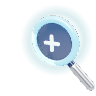
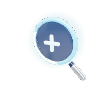
Lupa menor e proporcional (e à prova de sumir); Serviços com título junto ao menu e letras maiores (#129)
Claude-Session: https://claude.ai/code/session_01W4EMxrHJE2KvoUZMjh5ybf

Changed region(s): [[0.25, 0.0938, 1.0, 0.9688]]

diff --git a/src/app/theme-claro.css b/src/app/theme-claro.css
@@ -1752,9 +1752,9 @@ html.bolha-aberta a, html.bolha-aberta button, html.bolha-aberta button * { curs
 /* ================= LUPA 3D que amplia o texto (23/11/2026, modelo 2 do Victor) — src/lib/bolha.ts =================
    O card não sai do lugar: a lente segue o mouse e mostra uma cópia do card ampliada 2,2x embaixo dela. */
 .card--bolha.com-lupa, .card--bolha.com-lupa * { cursor: none !important; }
-.lupa-lente { position: fixed; left: 0; top: 0; width: 468px; height: 501px; z-index: 135; pointer-events: none; opacity: 0; will-change: transform; }
-.lupa-lente__vidro { position: absolute; left: 107px; top: 115px; width: 210px; height: 210px; border-radius: 50%; overflow: hidden; background: #fff;
-  box-shadow: inset 0 0 0 1px rgba(255, 255, 255, .6), inset 0 0 22px rgba(1, 24, 52, .28); }
+.lupa-lente { position: fixed; left: 0; top: 0; width: 211px; height: 227px; z-index: 135; pointer-events: none; opacity: 0; will-change: transform; }
+.lupa-lente__vidro { position: absolute; left: 31.5px; top: 36px; width: 132px; height: 132px; border-radius: 50%; overflow: hidden; background: #fff;
+  box-shadow: inset 0 0 0 1px rgba(255, 255, 255, .6), inset 0 0 14px rgba(1, 24, 52, .28); }
 .lupa-lente__conteudo { position: absolute; left: 0; top: 0; transform-origin: 0 0; }
 .lupa-lente__brilho { position: absolute; inset: 0; border-radius: 50%; pointer-events: none;
   background: radial-gradient(ellipse 46% 30% at 32% 22%, rgba(255, 255, 255, .55), transparent 70%),
@@ -1766,3 +1766,19 @@ html.bolha-aberta a, html.bolha-aberta button, html.bolha-aberta button * { curs
 .lupa-lente .lupa-ctx > i, .lupa-lente .work__grid > i, .lupa-lente .work__grupo-head { display: none !important; }
 .lupa-lente .card, .lupa-lente .project { margin: 0 !important; transform: none !important; translate: none !important; scale: none !important;
   animation: none !important; opacity: 1 !important; visibility: visible !important; }
+
+/* SERVIÇOS no computador (Victor, 23/11/2026: "título longe do menu", "letra muito pequena"): título a ~10px do menu
+   (o respiro vem de paginas.ts), letras maiores e o bloco usando 90% da LARGURA DA TELA (largura de layout = tela ÷ zoom):
+   cards largos = menos linhas = a página cabe com zoom maior = letra maior na tela */
+@media (min-width: 761px) {
+  html.modo-paginas .services { padding-top: 0 !important; }
+  html.modo-paginas .services__pin { padding: 0 0 18px !important; }
+  html.modo-paginas .services__head { margin-bottom: 18px !important; }
+  html.modo-paginas .services__head, html.modo-paginas .services__track { width: calc(90vw * var(--inv-zoom, 1)) !important; max-width: none !important;
+    margin-left: auto !important; margin-right: auto !important; padding-left: 0 !important; padding-right: 0 !important; }
+  html.modo-paginas .services .section-title { font-size: clamp(2.4rem, 3.4vw, 3.4rem) !important; }
+  html.modo-paginas .services__lead { font-size: 1.2rem !important; max-width: 70ch !important; }
+  html.modo-paginas .services__track .card h3, html.modo-paginas .services__track .card:nth-child(1) h3 { font-size: 1.75rem !important; }
+  html.modo-paginas .services__track .card p, html.modo-paginas .services__track .card:nth-child(1) p { font-size: 1.22rem !important; line-height: 1.5 !important; }
+  html.modo-paginas .services__track .card--cta h3 { font-size: 1.9rem !important; }
+}

diff --git a/src/lib/bolha.ts b/src/lib/bolha.ts
@@ -14,9 +14,9 @@ import gsap from "gsap";
  *    Esc, voltando para o card. A cópia mora no <body> (fora do `zoom` das páginas) e rola com o mouse por dentro.
  *    Enquanto aberta, `html.bolha-aberta` segura a troca de páginas (paginas.ts).
  */
-const AUMENTO = 2.2;
-// moldura renderizada: centro da lente e raio interno (px CSS) dentro da imagem de 468×501
-const MOLDURA = { w: 468, h: 501, cx: 212, cy: 220, r: 105 };
+const AUMENTO = 2.1;
+// moldura renderizada (2ª versão, "mais proporcional": aro fino, cabo curto): centro da lente e raio interno em px CSS
+const MOLDURA = { w: 211, h: 227, cx: 97.5, cy: 102, r: 66 };
 
 export function iniciarBolha(): () => void {
   const html = document.documentElement;
@@ -75,6 +75,8 @@ export function iniciarBolha(): () => void {
   const posicionar = () => {
     raf = 0;
     if (!alvo || !copiaLupa) return;
+    // (proteção: se a cópia sumiu da lente — ex.: uma saída e entrada muito rápidas —, refaz)
+    if (!conteudo.firstChild || !copiaLupa.isConnected) { const a = alvo; alvo = null; mostrarLupa(a, { clientX: mx, clientY: my } as MouseEvent); return; }
     // a lente acompanha o mouse com um leve atraso (movimento macio)
     lx += (mx - lx) * 0.38; ly += (my - ly) * 0.38;
     lente.style.translate = `${lx - MOLDURA.cx}px ${ly - MOLDURA.cy}px`; // (`translate` à parte: o gsap usa `transform` para aparecer)
@@ -101,7 +103,7 @@ export function iniciarBolha(): () => void {
   const esconderLupa = () => {
     alvo?.classList.remove("com-lupa");
     alvo = null;
-    if (visivel) { visivel = false; gsap.to(lente, { opacity: 0, scale: 0.8, duration: 0.2, ease: "power2.in", onComplete: () => { if (!visivel) conteudo.replaceChildren(); } }); }
+    if (visivel) { visivel = false; gsap.to(lente, { opacity: 0, scale: 0.8, duration: 0.2, ease: "power2.in", onComplete: () => { if (!visivel && !alvo) conteudo.replaceChildren(); } }); }
   };
   lente.style.transformOrigin = `${MOLDURA.cx}px ${MOLDURA.cy}px`;
 

diff --git a/src/lib/paginas.ts b/src/lib/paginas.ts
@@ -78,7 +78,9 @@ export function iniciarPaginas(gsap: typeof GsapT, ScrollTrigger: typeof STT, le
       // --inv-zoom: o fundo de largura total (100vw) encolheria junto com o zoom; o CSS compensa com ele
       const aplicar = (v: number) => {
         g.secs.forEach((s) => { s.style.zoom = String(v); s.style.setProperty("--inv-zoom", String(1 / v)); });
-        primeira.style.setProperty("padding-top", `${Math.max(respiro0, (ch + 12) / v)}px`, "important");
+        // Serviços: o título fica a ~10px do menu (Victor, 23/11/2026) — sem o respiro original da seção
+        const respiroMin = primeira.matches(".services") ? 0 : respiro0;
+        primeira.style.setProperty("padding-top", `${Math.max(respiroMin, (ch + (primeira.matches(".services") ? 0 : 12)) / v)}px`, "important");
       };
       aplicar(z);
       // com zoom a largura útil muda (imagens com proporção ficam mais altas/baixas): corrige medindo de novo

diff --git a/CLAUDE.md b/CLAUDE.md
@@ -200,7 +200,8 @@ O endereço de produção é o do projeto `mafra-site` na Vercel.
 - **Cards de Serviços e Cases** (23/11/2026, Victor: monitor de 15,6" não dava para ler; `src/lib/bolha.ts`, só computador):
   1) PASSAR O MOUSE = LUPA 3D que segue o mouse e AMPLIA (2,2x) só o texto embaixo dela; o card NÃO sai do lugar
   ("não quero que o menu venha para frente"). Modelo 2 escolhido pelo Victor (aro azul-ciano aceso, cabo cromado),
-  renderizado em 3D com three.js: `/public/lupa-moldura.webp` (aro vazado; centro 212,220, raio 105 em 468×501) e
+  renderizado em 3D com three.js: `/public/lupa-moldura.webp` (2ª versão "proporcional": aro fino, cabo curto; centro 97,5/102,
+  raio 66 em 211×227 — a 1ª era grande demais) e
   `/public/lupa-cursor.png` (ícone do cursor nas Perguntas e na dica). Dentro da lente vai uma cópia do card na MESMA
   estrutura de classes (inclusive um `#cases` temporário) para as letras ficarem idênticas.
   2) CLIQUE = a cópia sai do card e vem ao centro como GELATINA: cresce em 8 balanços (achata/estica, cada vez menos)
@@ -211,6 +212,9 @@ O endereço de produção é o do projeto `mafra-site` na Vercel.
   NÃO abre na lista (a página mudava de altura e o encaixe encolhia/crescia tudo): o clique abre um painel em tela cheia —
   círculo escuro nasce do ponto do clique, pergunta sobe palavra por palavra, resposta acende, luz passa; ← → navegam.
   `html.bolha-aberta` segura a troca de páginas enquanto bolha/foco estão abertos.
+- **Serviços no computador** (23/11/2026): título encostado no menu (respiro = altura do menu, em `paginas.ts`), cards e
+  cabeçalho com 90% da LARGURA DA TELA (`calc(90vw * var(--inv-zoom))`), letras maiores (h3 1,75rem, texto 1,22rem).
+  Em 1366×650 o texto dos cards foi de ~8px para ~13px na tela.
 - **"Voltar ao topo"** no computador usa `__paginas.ir(0)` (a rolagem suave fica desligada no modo páginas).
 - Lista do topo ("/ Diagnóstico & processos…"): +2px e negrito; texto do topo ("Entendo a rotina…") +1px e negrito; menu do topo em negrito (monitor pequeno). Bloco de texto do topo 160px mais à esquerda no computador (`translate`, o vídeo NÃO muda).
 - Botões verdes: flash claro passando da esquerda para a direita a cada 3 s (`verde-varre`).
